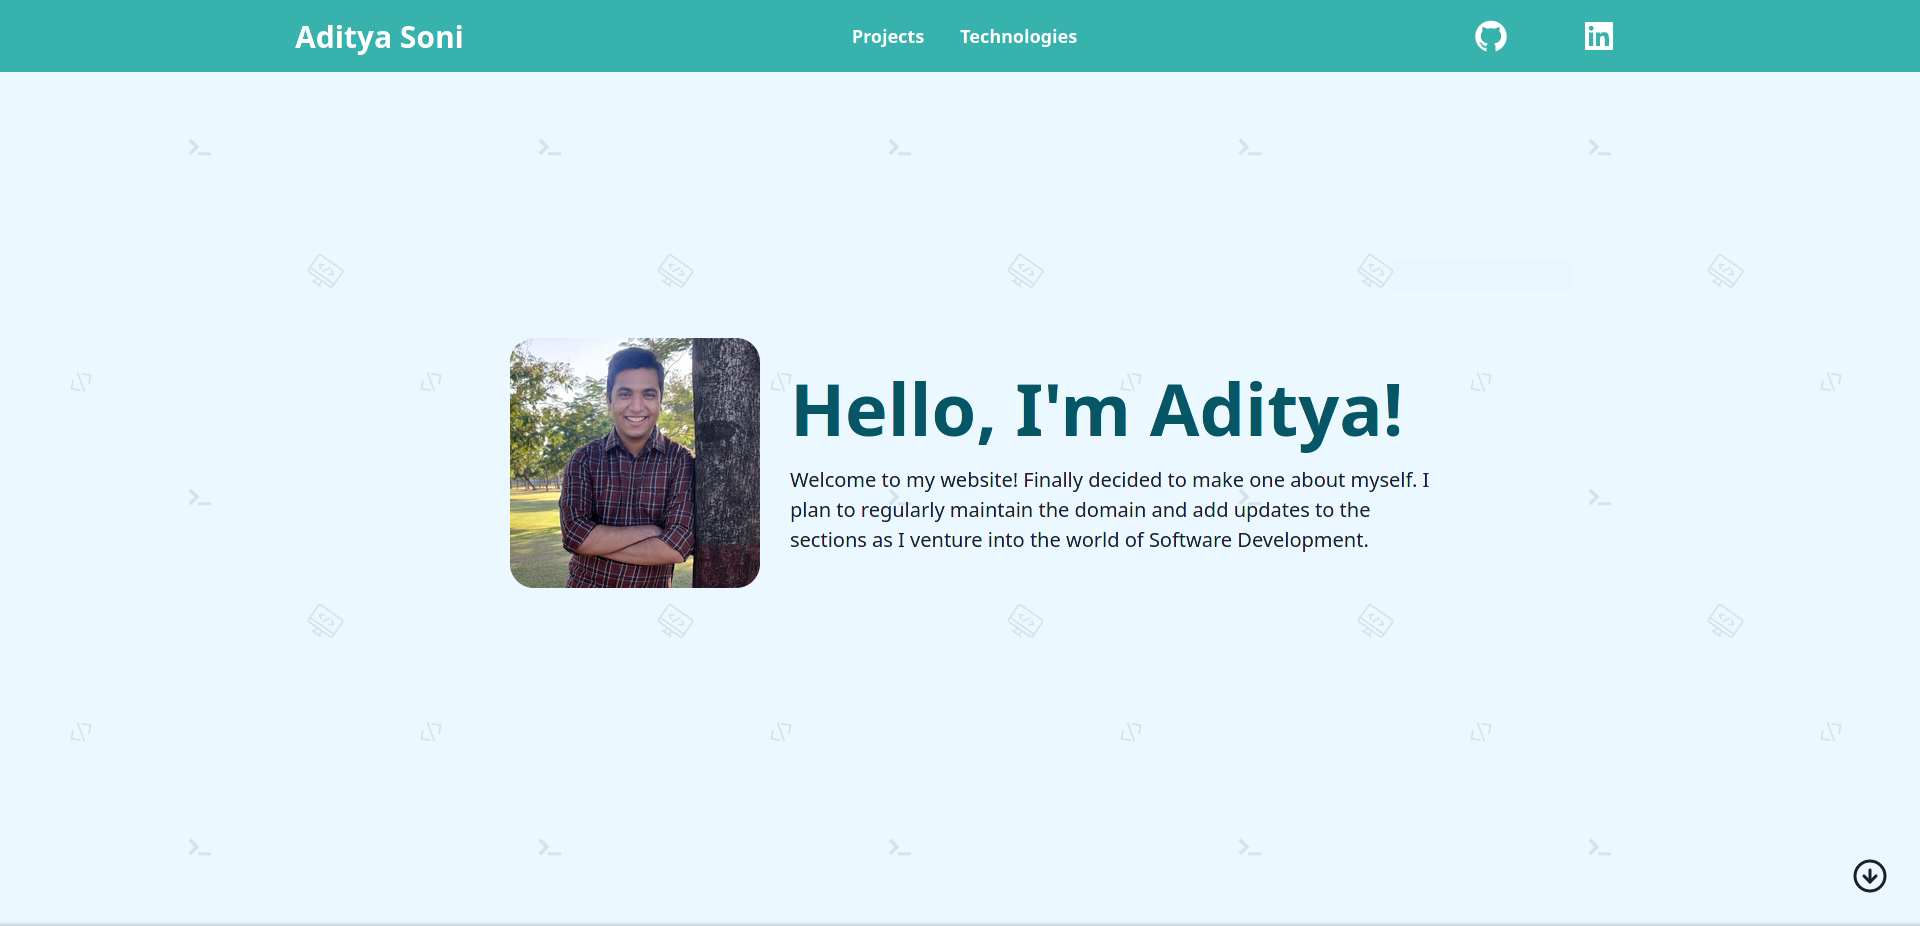
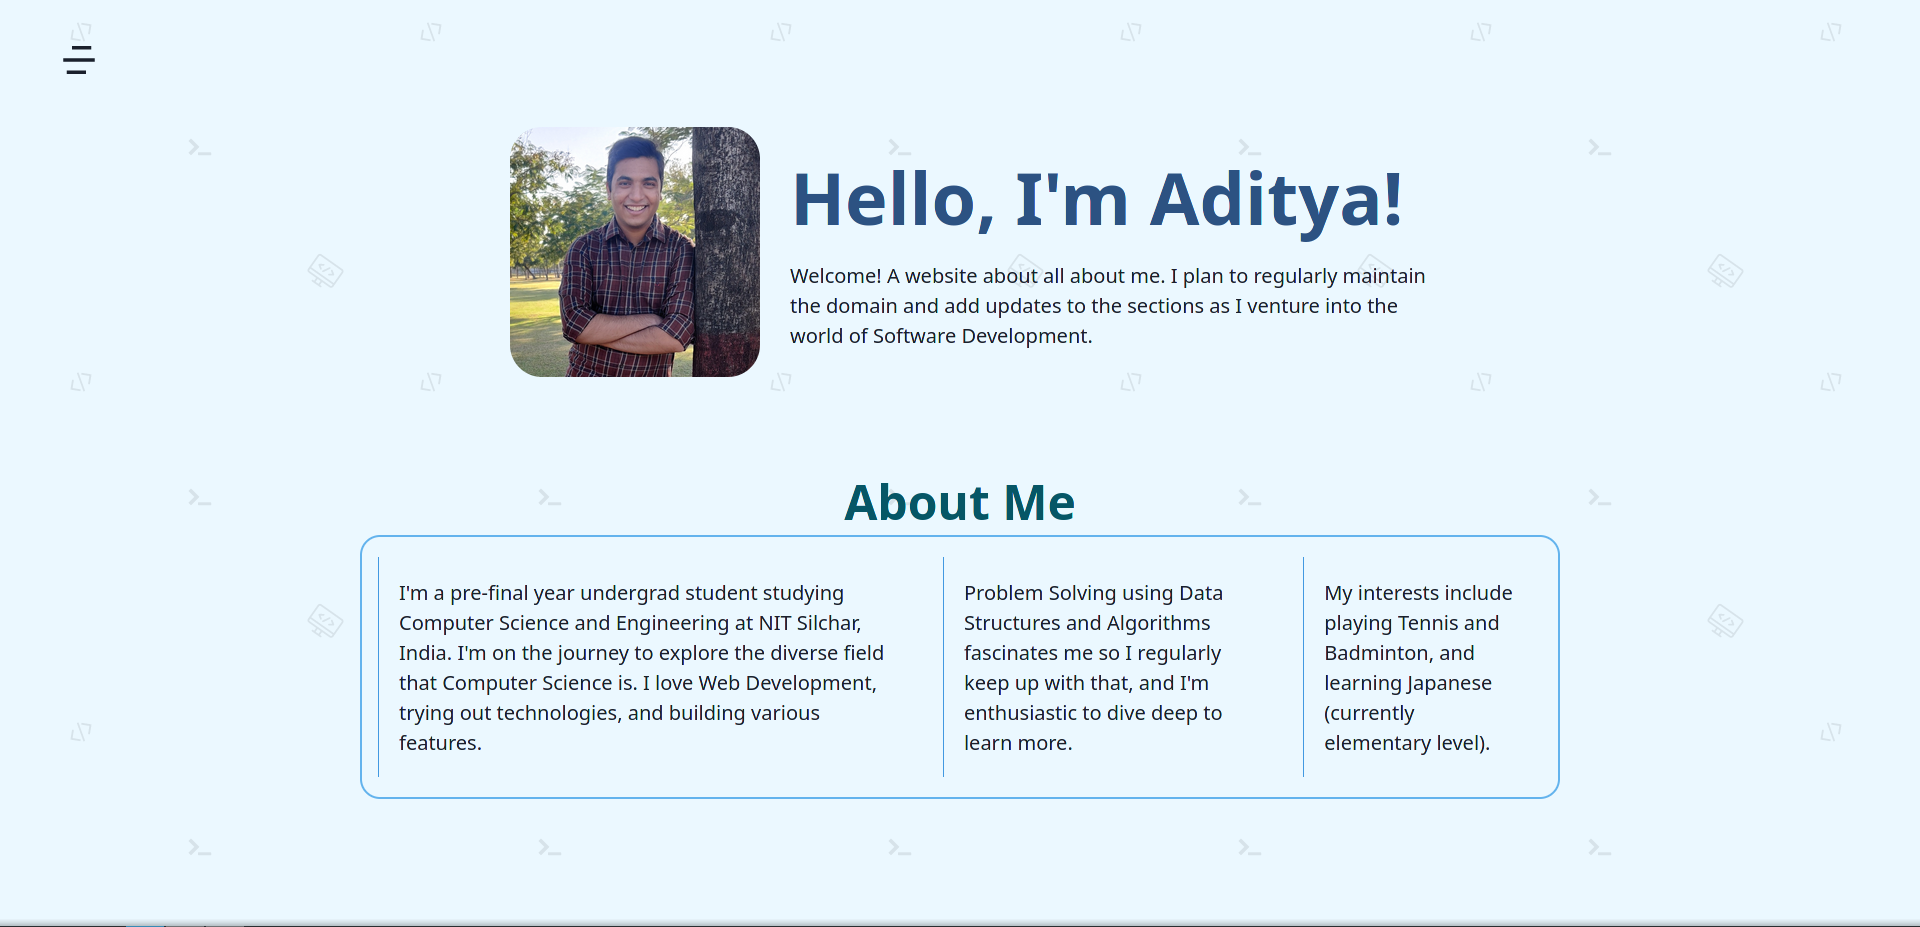
updated home page layout

diff --git a/components/About/Content.tsx b/components/About/Content.tsx
@@ -1,0 +1,40 @@
+import BoxIn from "./BoxIn";
+import { Text, Box } from "@chakra-ui/react";
+
+export const ContentOne = () => {
+  return (
+    <>
+      <BoxIn childWidth="1200px" hasPartition={true}>
+        <Text fontSize={{ base: "md", md: "xl" }}>
+          I'm a pre-final year undergrad student studying Computer Science and
+          Engineering at NIT Silchar, India. I'm on the journey to explore the
+          diverse field that Computer Science is. I love Web Development, trying
+          out technologies, and building various features.
+        </Text>
+      </BoxIn>
+    </>
+  );
+};
+
+export const ContentTwo = () => {
+  return (
+    <BoxIn childWidth="800px" hasPartition={true}>
+      <Text fontSize={{ base: "md", md: "xl" }}>
+        Problem Solving using Data Structures and Algorithms fascinates me so I
+        regularly keep up with that, and I'm enthusiastic to dive deep to learn
+        more.
+      </Text>
+    </BoxIn>
+  );
+};
+
+export const ContentThree = () => {
+  return (
+    <BoxIn childWidth="600px" hasPartition={true}>
+      <Text fontSize={{ base: "md", md: "xl" }}>
+        My interests include playing Tennis and Badminton, and learning Japanese
+        (currently elementary level).
+      </Text>
+    </BoxIn>
+  );
+};

diff --git a/components/About/BoxIn.tsx b/components/About/BoxIn.tsx
@@ -1,25 +1,28 @@
-import React from 'react'
-import { Box } from '@chakra-ui/react'
+import React from "react";
+import { border, Box } from "@chakra-ui/react";
 
 interface Props {
-    children: React.ReactNode;
-    childWidth: string;
+  children?: React.ReactNode;
+  hasPartition: boolean;
+  childWidth: string;
 }
 
-const BoxIn = ({ children, childWidth }: Props) => {
-    return (
-        <Box 
-            border='2px solid #63b3ed' 
-            p={8} 
-            borderRadius='20px' 
-            maxW={childWidth} 
-            my={5} 
-            transition='all 0.2s ease'
-            _hover={{transform: 'scale(1.2)'}}
-        >
-            {children}
-        </Box>
-    )
-}
+const BoxIn = ({ children, childWidth, hasPartition }: Props) => {
+  return (
+    <Box
+      display="flex"
+      alignItems="center"
+      p={5}
+      maxW={childWidth}
+      borderLeft={hasPartition ? "1px solid #4299e1" : "none"}
+      my={5}
+      mx={4}
+      bgColor="#ebf8ff"
+      transition="all 0.2s ease"
+    >
+      {children}
+    </Box>
+  );
+};
 
-export default BoxIn
+export default BoxIn;

diff --git a/pages/index.tsx b/pages/index.tsx
@@ -1,12 +1,10 @@
 import Head from "next/head";
 import { Flex } from "@chakra-ui/react";
-import About from "../components/About/About";
 import Intro from "../components/Intro/Intro";
-import InsiteLinks from "../components/Intro/InsiteLinks";
-import ScrollAnchor from "../components/ScrollAnchor/ScrollAnchor";
+import AboutAlt from "../components/About/AboutAlt";
 
 export default function Home() {
-  const anc: string[] = ["#about", "#intro"];
+  // const anc: string[] = ["#about", "#intro"];
 
   return (
     <>
@@ -16,18 +14,16 @@ export default function Home() {
 
       <Flex
         id="intro"
-        height="100vh"
+        height={{ base: "", md: "100vh" }}
         justifyContent="center"
         alignItems="center"
         flexDirection="column"
       >
-        <Flex flexDirection="column">
-          <Intro />
-          <InsiteLinks />
-        </Flex>
+        <Intro />
+        <AboutAlt />
       </Flex>
-      <ScrollAnchor jump={anc} />
-      <About />
+      {/* <ScrollAnchor jump={anc} />
+      <About /> */}
     </>
   );
 }

diff --git a/components/About/AboutAlt.tsx b/components/About/AboutAlt.tsx
@@ -1,0 +1,31 @@
+import React from "react";
+import { Flex, Heading } from "@chakra-ui/react";
+import { ContentOne, ContentTwo, ContentThree } from "./Content";
+
+const AboutAlt = () => {
+  return (
+    <Flex marginTop="80px" flexDirection="column" alignItems="center" py="10px">
+      <Flex marginBottom="10px">
+        <Heading as="h2" size="2xl" color="#065666">
+          About Me
+        </Heading>
+      </Flex>
+      <Flex
+        maxW="1200px"
+        maxH="36vh"
+        mx={{ base: "20px", md: "0" }}
+        marginBottom={{ base: "20px", md: "0" }}
+        flexDirection={["column", "column", "row", "row"]}
+        border="2px solid #63b3ed"
+        borderRadius="20px"
+        overflowY="auto"
+      >
+        <ContentOne />
+        <ContentTwo />
+        <ContentThree />
+      </Flex>
+    </Flex>
+  );
+};
+
+export default AboutAlt;

diff --git a/components/Layout.tsx b/components/Layout.tsx
@@ -1,21 +1,19 @@
-import React from 'react'
-import Nav from './Nav/Nav';
-import Footer from './Footer/Footer';
+import React from "react";
+import Nav from "./Nav/Nav";
+import Footer from "./Footer/Footer";
 
 interface LayoutProps {
-   children: React.ReactNode; 
+  children: React.ReactNode;
 }
 
 const Layout = ({ children }: LayoutProps) => {
-    return (
-        <>
-        <Nav />
-        <div>
-           {children}
-        </div>
-        <Footer />
-        </>
-    )
-}
+  return (
+    <>
+      <Nav />
+      <div>{children}</div>
+      <Footer />
+    </>
+  );
+};
 
-export default Layout
+export default Layout;

diff --git a/components/Nav/LinkIcon.tsx b/components/Nav/LinkIcon.tsx
@@ -17,9 +17,8 @@ const LinkIcon = ({ to, icon }: Props) => {
         bgColor="inherit"
         marginTop={{ base: "0", md: "4vh" }}
         fontSize={{ base: "3xl", md: "5xl" }}
-        transition="all 0.4s ease"
-        border="1px solid transparent"
-        _hover={{ border: "1px solid #ebf8ff" }}
+        transition="all 0.2s ease"
+        _hover={{ transform: "scale(1.2)" }}
         icon={icon}
       />
     </li>

diff --git a/components/Intro/Intro.tsx b/components/Intro/Intro.tsx
@@ -11,6 +11,7 @@ const Intro = () => {
       alignItems="center"
       px={{ base: "16px", md: "0px" }}
       flexDirection={["column", "column", "row", "row"]}
+      marginTop={{ base: "100px", md: "0" }}
     >
       <Flex margin="10px 30px">
         <Skeleton
